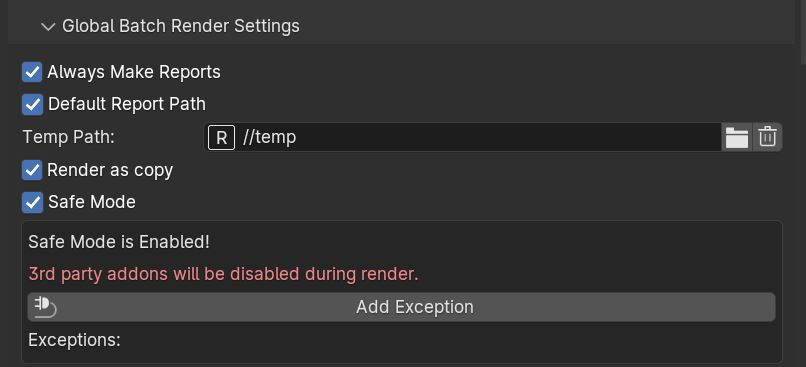
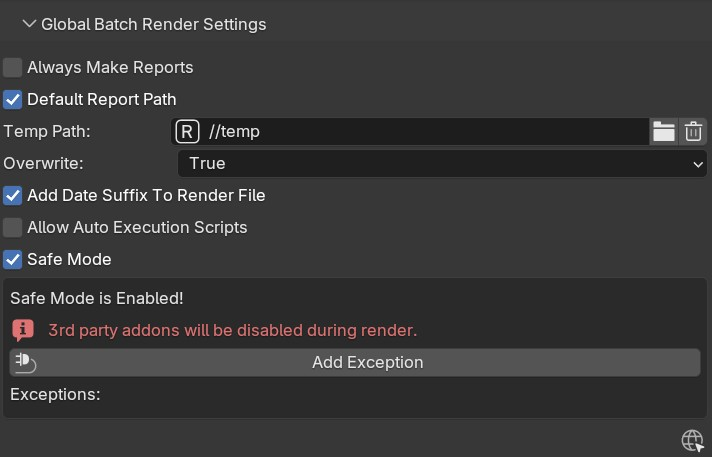
2.0.8.0-2 updates, removed promo images

diff --git a/source/index.rst b/source/index.rst
@@ -5,9 +5,9 @@ Shot Manager
 **Socials:**
 
 BlueSky: https://bsky.app/profile/otrealms.bsky.social
-REDnote: otrealms1234
+Discord: https://discord.gg/NF5WZzUrxV
 
-:Version: 2.0.6
+:Version: 2.0.8.2
 
 
 Getting Started
@@ -260,6 +260,7 @@ Properties
 * **Cycles Max Samples** = cycles.samples
 * **Cycles Max Viewport Samples** = cycles.preview_samples
 * **Cycles Motion Blur** = render.use_motion_blur
+* **Compositor Nodes** = compositing_node_group (Blender 5)
 * **Eevee Motion Blur** = eevee.use_motion_blur
 * **Eevee Samples** = eevee.taa_render_samples
 * **Eevee Viewport Samples** = eevee.taa_samples
@@ -279,6 +280,7 @@ Properties
 * **World** = world
 * **Timeline Markers** = sm_general_props.marker_set (PRO☆)
 * **File Format** = render.image_settings (PRO☆)
+
 
 
 View Layers
@@ -326,11 +328,29 @@ Output Settings
 .. image:: Output.JPG
 
 * **Root Folder** will be the starting directory for shots.
-
 * **Separator**, A custom separator to add between filenames and frame suffix, default is underscore '_'.
 * **Path Type**, Absolute or Relative output path creation. Affects; Root Folder, Temp Folder and Render Log Folder.
-* **Shot Subfolders**, When enabled, add a unique subfolder to the output path with the shot's name, separating it from other shots. Disabling this will lead to shots being rendered to the same folder which potentially could cause accidental overwrites when using generated output nodes.
 * **Use Suffix**, Add the shot's suffix to the shot's file path.
+* **Shot Subfolders**, When enabled, add a unique subfolder to the output path with the shot's name, separating it from other shots. Disabling this will lead to shots being rendered to the same folder which potentially could cause accidental overwrites when using generated output nodes.
+* **Redirect Main Output**, An alternative directory for the main output (excludes compositor output nodes). Avoids overwriting files such as those passed to the Composite node and helps with organisation. Note: the main output cannot be disabled altogether.
+
+Alternative Output Profiles
+---------------------------
+
+.. image:: AltOutputProfiles.jpg
+
+Click **New+** to make a new profile. The settings displayed will look a lot like the Output module although only the most popular settings are available. 
+This feature can be used to create preview render presets or may be used for any other situation where more than one format needs to be rendered. Other methods such as SM Format Nodes, which does not support Video output, and Shot File Format overrides which are more flexiblw but are difficult to overried on mass.
+Alternative Output settings can be assigned to an entire Render List and will affect any batch render option. 
+
+* **Name**, The profile's name, optionally used as Suffix.
+* **Use As Output Suffix**, Adds the profile's name to the end of output filenames.
+* **Redirect Main Output**, Overrrides the *Redirect Main Output* in Batch Output Settings.
+*  * **Main Root folder**, define a *Main Output* folder, overrides the root folder for main outputs(non-compositor). 
+*  **Use Nodes**, Override *use Nodes*. If using Blender v5.0 or above, unchecking this will set the compositor graph to None.
+* **Add Custom Override**, Enter a Python RNA path to any attribute belonging to the Scene class. Right click on a render property to display a context menu with the option Copy Data Path, this will be relative to its super class which must be Scene.
+* **Apply Settings To Scene**, Make immediate changes to the scene, copying settings from the profile to the active scene.
+* **Remove Output Settings**,Deletes the active profile.
 
 Global Batch Render settings
 ----------------------------
@@ -341,7 +361,9 @@ Global Batch Render settings
 * **Always Make Reports**, Generate CSV render reports after rendering the first frame of every command.
 * **Use Default Report Path**, Use the default path (output directory) or define a custom report path.
 * **Temp Path**, The directory that will store temporary job files for the integrations/ submitters. Click trash can to clear files recognised by Shot Manager.
-* **Render As Copy**, Save a Blend file when using SM render specifically for rendering. Large files make take more time however it will prevent inconsistencies if the file is changed.IMPORTANT: Simulations using the Disk Cache option are not supported.
+* **Overwrite**, set the overwrite setting on batch renders, existing files will be overwritten. Not supported with settings: external blend files + per-shot files.
+* **Add Suffix To Render File**, Easily identify and avoid overwrites on batch render submission files by adding the date to the filename.
+* **Allow Auto Execution Scripts**, Allows scripted drivers and start up scripts to run during batch renders, included scripts should be from trusted sources. This may also fix some addons that fail to work while background rendering.
 * **Safe Mode**, When batch rendering, Blender will be run using factory start-up settings, disabling 3rd party add-ons that might interfere with the render process. Render devices are then forced and add-ons in the exceptions white list will be enabled.
 * **Add Exception**, Allow specific 3rd party add-ons to be enabled during batch render.
 
@@ -362,6 +384,7 @@ External Scenes can be filtered by listing scene names to include.
 * **Reload External Scenes**, External shots must be reloaded to reflect any updates to the shot list and frame ranges. Only already loaded scenes will be included, and any render queue overrides will be reset.
 
 * **Show Render Time**, Display completed render times in the queue
+* **Alternative Output**,Assign alternative output settings. First Create a setting profile in OUTPUT-> Output Settings -> Alternative Output Profiles. These can be use in combination with any batch renderer, including external .Blend files.
 
 * **VSE**, Push output to vse, including frame sequences and video files, refresh source files and add new shots, without resetting sequence edits.
 
